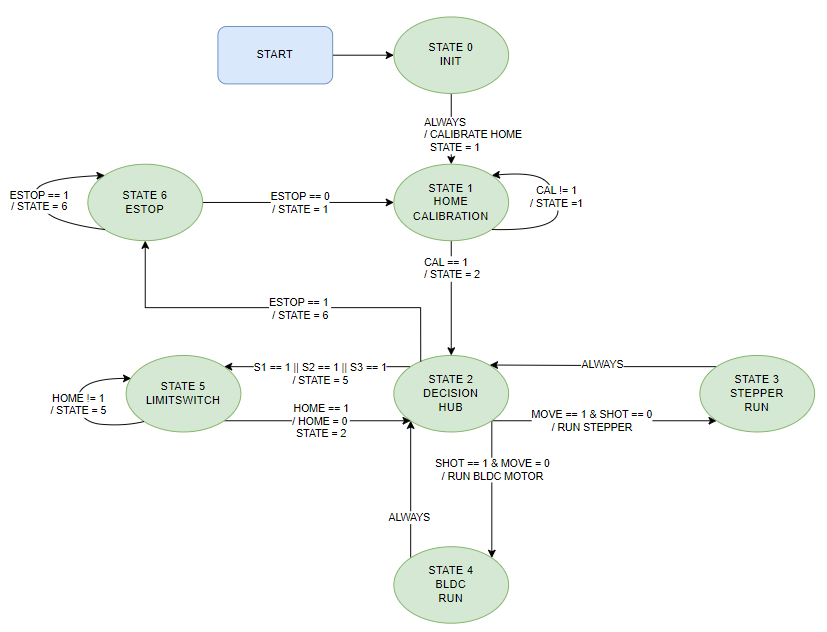
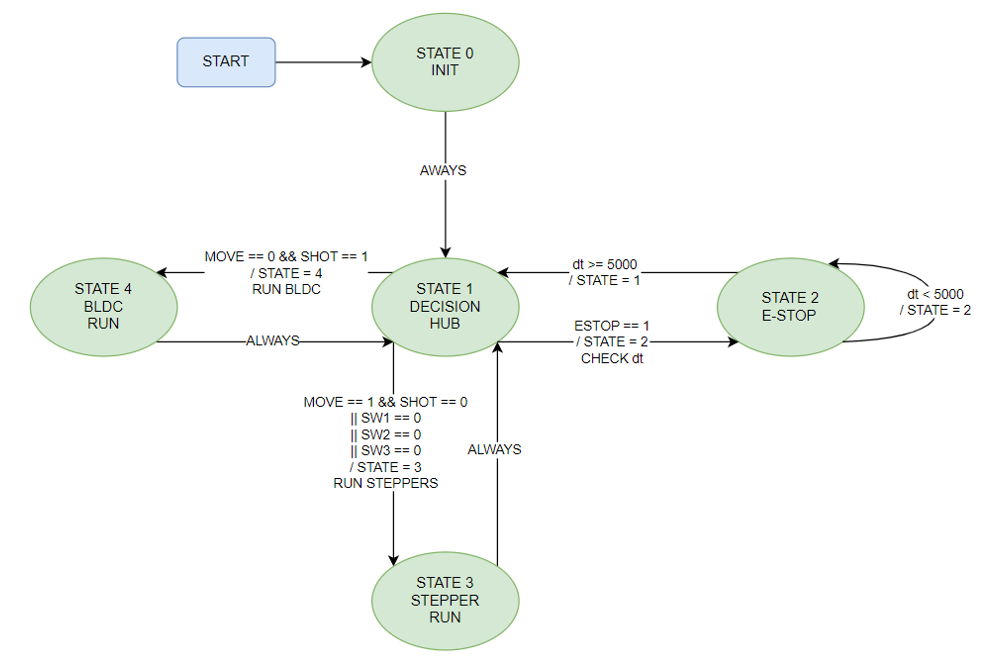
upload picture

Changed region(s): [[0.0, 0.0, 0.9976, 0.9921], [0.0605, 0.6013, 0.1209, 0.6614]]

diff --git a/docs/launcher_detail.html b/docs/launcher_detail.html
@@ -121,29 +121,24 @@ FINITE STATE MACHINE</h1>
 <tr class="markdownTableHead">
 <th class="markdownTableHeadNone">State   </th><th class="markdownTableHeadNone">Description   </th><th class="markdownTableHeadNone">Actions   </th><th class="markdownTableHeadNone">Transitions    </th></tr>
 <tr class="markdownTableRowOdd">
-<td class="markdownTableBodyNone">STATE0   </td><td class="markdownTableBodyNone">INIT   </td><td class="markdownTableBodyNone">- Init all objects in the system   </td><td class="markdownTableBodyNone">- Always transition to <b>STATE 1</b>    </td></tr>
+<td class="markdownTableBodyNone">STATE0   </td><td class="markdownTableBodyNone">INIT   </td><td class="markdownTableBodyNone">- Init all objects in the system   </td><td class="markdownTableBodyNone">- Always transition to <b>STATE1</b>    </td></tr>
 <tr class="markdownTableRowEven">
-<td class="markdownTableBodyNone">STATE1   </td><td class="markdownTableBodyNone">HOME POSITION CALIBRATION   </td><td class="markdownTableBodyNone">- Launcher finding limit switches and homing   </td><td class="markdownTableBodyNone">- Always transition to <b>STATE 2</b> if done calibration <br  />
- - Otherwise stay in <b>STATE 1</b>    </td></tr>
+<td class="markdownTableBodyNone">STATE1   </td><td class="markdownTableBodyNone">DECISION HUB   </td><td class="markdownTableBodyNone">- Jump to different state according to condition   </td><td class="markdownTableBodyNone">- Move to <b>STATE3</b> if MOVE == 1 &amp; SHOT == 0 <br  />
+ - Move to <b>STATE4</b> if SHOT == 1 &amp; MOVE == 0 <br  />
+ - Move to <b>STATE3</b> if hit any switches <br  />
+ - Move to <b>STATE2</b> if ESTOP == 1    </td></tr>
 <tr class="markdownTableRowOdd">
-<td class="markdownTableBodyNone">STATE2   </td><td class="markdownTableBodyNone">DECISION HUB   </td><td class="markdownTableBodyNone">- Jumping to different state according to condition   </td><td class="markdownTableBodyNone">- Move to <b>STATE 3</b> if MOVE == 1 &amp; SHOT == 0 <br  />
- - Move to <b>STATE 4</b> if SHOT == 1 &amp; MOVE == 0 <br  />
- - Move to <b>STATE 5</b> if hit any switches <br  />
- - Move to <b>STATE 6</b> if ESTOP == 1    </td></tr>
+<td class="markdownTableBodyNone">STATE2   </td><td class="markdownTableBodyNone">ESTOP   </td><td class="markdownTableBodyNone">- Stop all objects in the system &amp; wait for reset   </td><td class="markdownTableBodyNone">- Move to <b>STATE1</b> if dt &gt;= 5000 <br  />
+ - Stay in <b>STATE2</b> if dt &lt; 5000    </td></tr>
 <tr class="markdownTableRowEven">
-<td class="markdownTableBodyNone">STATE3   </td><td class="markdownTableBodyNone">STEPPER RUN   </td><td class="markdownTableBodyNone">- Runnning stepper motor   </td><td class="markdownTableBodyNone">- Always transition to <b>STATE 2</b>    </td></tr>
+<td class="markdownTableBodyNone">STATE3   </td><td class="markdownTableBodyNone">STEPPER RUN   </td><td class="markdownTableBodyNone">- Running stepper motors   </td><td class="markdownTableBodyNone">- Always move to <b>STATE1</b>    </td></tr>
 <tr class="markdownTableRowOdd">
-<td class="markdownTableBodyNone">STATE4   </td><td class="markdownTableBodyNone">BLDC RUN   </td><td class="markdownTableBodyNone">- Running BLDC Motor until fast speed   </td><td class="markdownTableBodyNone">- Always transition to <b>STATE 2</b>    </td></tr>
-<tr class="markdownTableRowEven">
-<td class="markdownTableBodyNone">STATE5   </td><td class="markdownTableBodyNone">LIMIT SWITCH   </td><td class="markdownTableBodyNone">- Return to home position after hitting the switches   </td><td class="markdownTableBodyNone">- Stay in <b>STATE 5" until done homing <br  />
- - Then transition to **STATE 2</b> when done    </td></tr>
-<tr class="markdownTableRowOdd">
-<td class="markdownTableBodyNone">STATE6   </td><td class="markdownTableBodyNone">ESTOP   </td><td class="markdownTableBodyNone">- Turn off everything if we hitting the ESTOP   </td><td class="markdownTableBodyNone">- Stop the launcher immediately   </td></tr>
+<td class="markdownTableBodyNone">STATE4   </td><td class="markdownTableBodyNone">BLDC RUN   </td><td class="markdownTableBodyNone">- Running BLDC motors   </td><td class="markdownTableBodyNone">- Always move to <b>STATE1</b>   </td></tr>
 </table>
-<p><img src="FSM2.png" alt="" width="1200" height="1000" class="inline"/></p>
+<p><img src="FSM2.png" alt="" width="1200" height="500" class="inline"/></p>
 <h1><a class="anchor" id="bomm3"></a>
 BILL OF MATERIAL - CYCLOIDAL GEARBOX</h1>
-<div align="center"></div><div align="center"><a href="https://www.youtube.com/playlist?list=PLlT9z-PWNXdMvf3wya2C2y9n_Qta7UkEB" target="_blank" style="color: blue; font-size: 20px; font-weight: bold; text-decoration: none; padding: 10px; background-color: yellow; border: 2px solid black; border-radius: 5px;">CYCLOIDAL GEARBOX DEMONSTRATION</a></div><div align="center"><img src="CG.png" alt="" width="800" height="800" class="inline"/></div><div align="center"><table class="markdownTable">
+<div align="center"></div><div align="center"> <a href="https://www.youtube.com/playlist?list=PLlT9z-PWNXdMvf3wya2C2y9n_Qta7UkEB" target="_blank" style="color: blue; font-size: 20px; font-weight: bold; text-decoration: none; padding: 10px; background-color: yellow; border: 2px solid black; border-radius: 5px;">CYCLOIDAL GEARBOX DEMONSTRATION</a></div><div align="center"> <img src="CG.png" alt="" width="800" height="800" class="inline"/></div><div align="center"><table class="markdownTable">
 <tr class="markdownTableHead">
 <th class="markdownTableHeadNone">Components   </th><th class="markdownTableHeadNone">Description   </th><th class="markdownTableHeadNone">Image    </th></tr>
 <tr class="markdownTableRowOdd">
@@ -185,7 +180,7 @@ BILL OF MATERIAL - MECHANICAL</h1>
 <tr class="markdownTableRowOdd">
 <td class="markdownTableBodyNone">BATTERY   </td><td class="markdownTableBodyNone">Lipo battery 11.1 V   </td><td class="markdownTableBodyNone"><img src="battery.png" alt="" width="250" height="250" class="inline"/>   </td></tr>
 </table>
-</div><div align="center"></div><h1><a class="anchor" id="bomm5"></a>
+</div><div align="center"> </div><h1><a class="anchor" id="bomm5"></a>
 BILL OF MATERIAL - 3D PRINTED PARTS</h1>
 <p>Most of the 3D printed parts are printed using BambuLab XC1 3D printer and BambuLab filaments. All the CAD 3D model files can be found here for reference: </p><div class="image-frame"> <a href="https://github.com/vvinhvvo98/Basketball-Launcher/tree/main/CAD"><img src="solidworks.png" alt="" width="250" height="250" style="border: 10px solid black; border-radius: 50px;" class="inline"/> </a> </div><h1><a class="anchor" id="bome2"></a>
 BILL OF MATERIAL - ELECTRONICS</h1>

diff --git a/docs/controller_detail.html b/docs/controller_detail.html
@@ -109,18 +109,18 @@ FINITE STATE MACHINE</h1>
 <th class="markdownTableHeadNone">State   </th><th class="markdownTableHeadNone">Description   </th><th class="markdownTableHeadNone">Actions   </th><th class="markdownTableHeadNone">Transitions    </th></tr>
 <tr class="markdownTableRowOdd">
 <td class="markdownTableBodyNone">STATE0   </td><td class="markdownTableBodyNone">INIT - Attempt to connect to IMU   </td><td class="markdownTableBodyNone">- Attempt to connect<br  />
- - Turn on LED1 if successful   </td><td class="markdownTableBodyNone">- If unsuccessful, transition to <b>STATE 1</b><br  />
- - If successful, transition to <b>STATE 2</b>    </td></tr>
+ - Turn on LED1 if successful   </td><td class="markdownTableBodyNone">- If unsuccessful, transition to <b>STATE1</b><br  />
+ - If successful, transition to <b>STATE2</b>    </td></tr>
 <tr class="markdownTableRowEven">
-<td class="markdownTableBodyNone">STATE1   </td><td class="markdownTableBodyNone">ERROR- Failed to connecto IMU   </td><td class="markdownTableBodyNone">- Toggle LED1 if failed to connect to the IMU   </td><td class="markdownTableBodyNone">- Always transition to <b>STATE 0</b>    </td></tr>
+<td class="markdownTableBodyNone">STATE1   </td><td class="markdownTableBodyNone">ERROR- Failed to connecto IMU   </td><td class="markdownTableBodyNone">- Toggle LED1 if failed to connect to the IMU   </td><td class="markdownTableBodyNone">- Always transition to <b>STATE0</b>    </td></tr>
 <tr class="markdownTableRowOdd">
-<td class="markdownTableBodyNone">STATE2   </td><td class="markdownTableBodyNone">IMU - Read data from the IMU   </td><td class="markdownTableBodyNone">- Continuosly read the data from the IMU   </td><td class="markdownTableBodyNone">- Always transition to <b>STATE 3</b>    </td></tr>
+<td class="markdownTableBodyNone">STATE2   </td><td class="markdownTableBodyNone">IMU - Read data from the IMU   </td><td class="markdownTableBodyNone">- Continuosly read the data from the IMU   </td><td class="markdownTableBodyNone">- Always transition to <b>STATE3</b>    </td></tr>
 <tr class="markdownTableRowEven">
 <td class="markdownTableBodyNone">STATE3   </td><td class="markdownTableBodyNone">BUTTON_LED - Read buttons &amp; update LEDs   </td><td class="markdownTableBodyNone">- Countinously read the button<br  />
- - Update the LEDs   </td><td class="markdownTableBodyNone">- Always transition back to <b>STATE 4</b>    </td></tr>
+ - Update the LEDs   </td><td class="markdownTableBodyNone">- Always transition back to <b>STATE4</b>    </td></tr>
 <tr class="markdownTableRowOdd">
 <td class="markdownTableBodyNone">STATE4   </td><td class="markdownTableBodyNone">TRANSFER - Send data to UART1 and UART6   </td><td class="markdownTableBodyNone">- Send data to UART1 (bluetooth)<br  />
- - UART6 (debug)   </td><td class="markdownTableBodyNone">- Always transition back to <b>STATE 2</b>   </td></tr>
+ - UART6 (debug)   </td><td class="markdownTableBodyNone">- Always transition back to <b>STATE2</b>   </td></tr>
 </table>
 </div><div class="image-frame"> <img src="FSM1.png" alt="" width="1200" height="800 400" style="border: 10px solid black; border-radius: 50px;" class="inline"/> </div><h1><a class="anchor" id="bomm5"></a>
 BILL OF MATERIAL - 3D PRINTED PARTS</h1>

diff --git a/PAGES/launcher.c b/PAGES/launcher.c
@@ -69,19 +69,17 @@
  * </div>
  * 
  * 
- * @section fsm1 FINITE STATE MACHINE
- * | State       | Description                   | Actions                                             | Transitions                                                                                                                                                                               |
- * |-------------|-------------------------------|---------------------------------------------------- | ----------------------------------------------------------------------------------------------------------------------------------------------------------------------------------------- |
- * | STATE0      | INIT                          | - Init all objects in the system                    | - Always transition to **STATE 1**                                                                                                                                                        |
- * | STATE1      | HOME POSITION CALIBRATION     | - Launcher finding limit switches and homing        | - Always transition to **STATE 2** if done calibration <br> - Otherwise stay in **STATE 1**                                                                                                    |
- * | STATE2      | DECISION HUB                  | - Jumping to different state according to condition | - Move to **STATE 3** if MOVE == 1 & SHOT == 0 <br> - Move to **STATE 4** if SHOT == 1 & MOVE == 0 <br> - Move to **STATE 5** if hit any switches <br> - Move to **STATE 6** if ESTOP == 1|
- * | STATE3      | STEPPER RUN                   | - Runnning stepper motor                            | - Always transition to **STATE 2**                                                                                                                                                        |
- * | STATE4      | BLDC RUN                      | - Running BLDC Motor until fast speed               | - Always transition to **STATE 2**                                                                                                                                                        |
- * | STATE5      | LIMIT SWITCH                  | - Return to home position after hitting the switches| - Stay in **STATE 5" until done homing <br> - Then transition to **STATE 2** when done                                                                                                    | 
- * | STATE6      | ESTOP                         | - Turn off everything if we hitting the ESTOP       | - Stop the launcher immediately                                                                                                                                                           | 
+ *@section fsm1 FINITE STATE MACHINE
+ *| State       | Description                                     | Actions                                           | Transitions                                                                                                   |
+ *|-------------|-------------------------------------------------|---------------------------------------------------|-----------------------------------------------------------------------------------------------------------------|
+ *| STATE0      | INIT                                            | - Init all objects in the system                  | - Always transition to **STATE1**                                                                               |
+ *| STATE1      | DECISION HUB                                    | - Jump to different state according to condition  | - Move to **STATE3** if MOVE == 1 & SHOT == 0 <br> - Move to **STATE4** if SHOT == 1 & MOVE == 0 <br> - Move to **STATE3** if hit any switches <br> - Move to **STATE2** if ESTOP == 1 |
+ *| STATE2      | ESTOP                                           | - Stop all objects in the system & wait for reset | - Move to **STATE1** if dt >= 5000 <br> - Stay in **STATE2** if dt < 5000                                        |
+ *| STATE3      | STEPPER RUN                                     | - Running stepper motors                          | - Always move to **STATE1**                                                                                     |
+ *| STATE4      | BLDC RUN                                        | - Running BLDC motors                             | - Always move to **STATE1**
+
  * 
- * 
- * <img src="FSM2.png" width="1200" height="1000"> 
+ * <img src="FSM2.png" width="1200" height="500"> 
  * 
  * 
  * 

diff --git a/docs/latex/launcher_detail.tex b/docs/latex/launcher_detail.tex
@@ -46,27 +46,24 @@ This PCB is the main component of the project, serving as the centerpiece of the
 \hline
 \PBS\centering \cellcolor{\tableheadbgcolor}\textbf{ State   }&\PBS\centering \cellcolor{\tableheadbgcolor}\textbf{ Description   }&\PBS\centering \cellcolor{\tableheadbgcolor}\textbf{ Actions   }&\PBS\centering \cellcolor{\tableheadbgcolor}\textbf{ Transitions    }\\\cline{1-4}
 \endhead
-STATE0   &INIT   &-\/ Init all objects in the system   &-\/ Always transition to {\bfseries{STATE 1}}    \\\cline{1-4}
-STATE1   &HOME POSITION CALIBRATION   &-\/ Launcher finding limit switches and homing   &-\/ Always transition to {\bfseries{STATE 2}} if done calibration ~\newline
- -\/ Otherwise stay in {\bfseries{STATE 1}}    \\\cline{1-4}
-STATE2   &DECISION HUB   &-\/ Jumping to different state according to condition   &-\/ Move to {\bfseries{STATE 3}} if MOVE == 1 \& SHOT == 0 ~\newline
- -\/ Move to {\bfseries{STATE 4}} if SHOT == 1 \& MOVE == 0 ~\newline
- -\/ Move to {\bfseries{STATE 5}} if hit any switches ~\newline
- -\/ Move to {\bfseries{STATE 6}} if ESTOP == 1    \\\cline{1-4}
-STATE3   &STEPPER RUN   &-\/ Runnning stepper motor   &-\/ Always transition to {\bfseries{STATE 2}}    \\\cline{1-4}
-STATE4   &BLDC RUN   &-\/ Running BLDC Motor until fast speed   &-\/ Always transition to {\bfseries{STATE 2}}    \\\cline{1-4}
-STATE5   &LIMIT SWITCH   &-\/ Return to home position after hitting the switches   &-\/ Stay in {\bfseries{STATE 5"{} until done homing ~\newline
- -\/ Then transition to $\ast$$\ast$\+STATE 2}} when done    \\\cline{1-4}
-STATE6   &ESTOP   &-\/ Turn off everything if we hitting the ESTOP   &-\/ Stop the launcher immediately   \\\cline{1-4}
+STATE0   &INIT   &-\/ Init all objects in the system   &-\/ Always transition to {\bfseries{STATE1}}    \\\cline{1-4}
+STATE1   &DECISION HUB   &-\/ Jump to different state according to condition   &-\/ Move to {\bfseries{STATE3}} if MOVE == 1 \& SHOT == 0 ~\newline
+ -\/ Move to {\bfseries{STATE4}} if SHOT == 1 \& MOVE == 0 ~\newline
+ -\/ Move to {\bfseries{STATE3}} if hit any switches ~\newline
+ -\/ Move to {\bfseries{STATE2}} if ESTOP == 1    \\\cline{1-4}
+STATE2   &ESTOP   &-\/ Stop all objects in the system \& wait for reset   &-\/ Move to {\bfseries{STATE1}} if dt $>$= 5000 ~\newline
+ -\/ Stay in {\bfseries{STATE2}} if dt $<$ 5000    \\\cline{1-4}
+STATE3   &STEPPER RUN   &-\/ Running stepper motors   &-\/ Always move to {\bfseries{STATE1}}    \\\cline{1-4}
+STATE4   &BLDC RUN   &-\/ Running BLDC motors   &-\/ Always move to {\bfseries{STATE1}}   \\\cline{1-4}
 \end{longtabu}
 
 
 \doxysection{BILL OF MATERIAL -\/ CYCLOIDAL GEARBOX}\label{launcher_detail_bomm3}
 
 
-{\texttt{ CYCLOIDAL GEARBOX DEMONSTRATION}}
+ {\texttt{ CYCLOIDAL GEARBOX DEMONSTRATION}}
 
-
+ 
 
 \tabulinesep=1mm
 \begin{longtabu}spread 0pt [c]{*{3}{|X[-1]}|}
@@ -111,6 +108,6 @@ BATTERY   &Lipo battery 11.\+1 V   &   \\\cline{1-3}
 \end{longtabu}
 
 
-\doxysection{BILL OF MATERIAL -\/ 3D PRINTED PARTS}\label{launcher_detail_bomm5}
+ \doxysection{BILL OF MATERIAL -\/ 3D PRINTED PARTS}\label{launcher_detail_bomm5}
 Most of the 3D printed parts are printed using Bambu\+Lab XC1 3D printer and Bambu\+Lab filaments. All the CAD 3D model files can be found here for reference\+:  {\texttt{  }} \doxysection{BILL OF MATERIAL -\/ ELECTRONICS}\label{launcher_detail_bome2}
 All of the components for electronics are listed in the attached PDF file here below  {\texttt{  }}  

diff --git a/PAGES/controller.c b/PAGES/controller.c
@@ -37,11 +37,11 @@
  * <div align="center">
  * | State       | Description                                        | Actions                                                | Transitions                                                                                    |
  * |-------------|----------------------------------------------------|--------------------------------------------------------|------------------------------------------------------------------------------------------------|
- * | STATE0      | INIT - Attempt to connect to IMU                   | - Attempt to connect<br> - Turn on LED1 if successful  | - If unsuccessful, transition to **STATE 1**<br> - If successful, transition to **STATE 2**    |
- * | STATE1      | ERROR- Failed to connecto IMU                      | - Toggle LED1 if failed to connect to the IMU          | - Always transition to **STATE 0**                                                             |
- * | STATE2      | IMU  - Read data from the IMU                      | - Continuosly read the data from the IMU               | - Always transition to **STATE 3**                                                             |
- * | STATE3      | BUTTON_LED - Read buttons & update LEDs            | - Countinously read the button<br> - Update the LEDs   | - Always transition back to **STATE 4**                                                        | 
- * | STATE4      | TRANSFER   - Send data to UART1 and UART6          | - Send data to UART1 (bluetooth)<br> - UART6 (debug)   | - Always transition back to **STATE 2**                                                        | 
+ * | STATE0      | INIT - Attempt to connect to IMU                   | - Attempt to connect<br> - Turn on LED1 if successful  | - If unsuccessful, transition to **STATE1**<br> - If successful, transition to **STATE2**    |
+ * | STATE1      | ERROR- Failed to connecto IMU                      | - Toggle LED1 if failed to connect to the IMU          | - Always transition to **STATE0**                                                             |
+ * | STATE2      | IMU  - Read data from the IMU                      | - Continuosly read the data from the IMU               | - Always transition to **STATE3**                                                             |
+ * | STATE3      | BUTTON_LED - Read buttons & update LEDs            | - Countinously read the button<br> - Update the LEDs   | - Always transition back to **STATE4**                                                        | 
+ * | STATE4      | TRANSFER   - Send data to UART1 and UART6          | - Send data to UART1 (bluetooth)<br> - UART6 (debug)   | - Always transition back to **STATE2**                                                        | 
  * </div>
  * 
  * <div class="image-frame">

diff --git a/docs/latex/controller_detail.tex b/docs/latex/controller_detail.tex
@@ -19,14 +19,14 @@ Below are the overall schematic and footprint of the PCBA that is used to integr
 \PBS\centering \cellcolor{\tableheadbgcolor}\textbf{ State   }&\PBS\centering \cellcolor{\tableheadbgcolor}\textbf{ Description   }&\PBS\centering \cellcolor{\tableheadbgcolor}\textbf{ Actions   }&\PBS\centering \cellcolor{\tableheadbgcolor}\textbf{ Transitions    }\\\cline{1-4}
 \endhead
 STATE0   &INIT -\/ Attempt to connect to IMU   &-\/ Attempt to connect~\newline
- -\/ Turn on LED1 if successful   &-\/ If unsuccessful, transition to {\bfseries{STATE 1}}~\newline
- -\/ If successful, transition to {\bfseries{STATE 2}}    \\\cline{1-4}
-STATE1   &ERROR-\/ Failed to connecto IMU   &-\/ Toggle LED1 if failed to connect to the IMU   &-\/ Always transition to {\bfseries{STATE 0}}    \\\cline{1-4}
-STATE2   &IMU -\/ Read data from the IMU   &-\/ Continuosly read the data from the IMU   &-\/ Always transition to {\bfseries{STATE 3}}    \\\cline{1-4}
+ -\/ Turn on LED1 if successful   &-\/ If unsuccessful, transition to {\bfseries{STATE1}}~\newline
+ -\/ If successful, transition to {\bfseries{STATE2}}    \\\cline{1-4}
+STATE1   &ERROR-\/ Failed to connecto IMU   &-\/ Toggle LED1 if failed to connect to the IMU   &-\/ Always transition to {\bfseries{STATE0}}    \\\cline{1-4}
+STATE2   &IMU -\/ Read data from the IMU   &-\/ Continuosly read the data from the IMU   &-\/ Always transition to {\bfseries{STATE3}}    \\\cline{1-4}
 STATE3   &BUTTON\+\_\+\+LED -\/ Read buttons \& update LEDs   &-\/ Countinously read the button~\newline
- -\/ Update the LEDs   &-\/ Always transition back to {\bfseries{STATE 4}}    \\\cline{1-4}
+ -\/ Update the LEDs   &-\/ Always transition back to {\bfseries{STATE4}}    \\\cline{1-4}
 STATE4   &TRANSFER -\/ Send data to UART1 and UART6   &-\/ Send data to UART1 (bluetooth)~\newline
- -\/ UART6 (debug)   &-\/ Always transition back to {\bfseries{STATE 2}}   \\\cline{1-4}
+ -\/ UART6 (debug)   &-\/ Always transition back to {\bfseries{STATE2}}   \\\cline{1-4}
 \end{longtabu}
 
 
